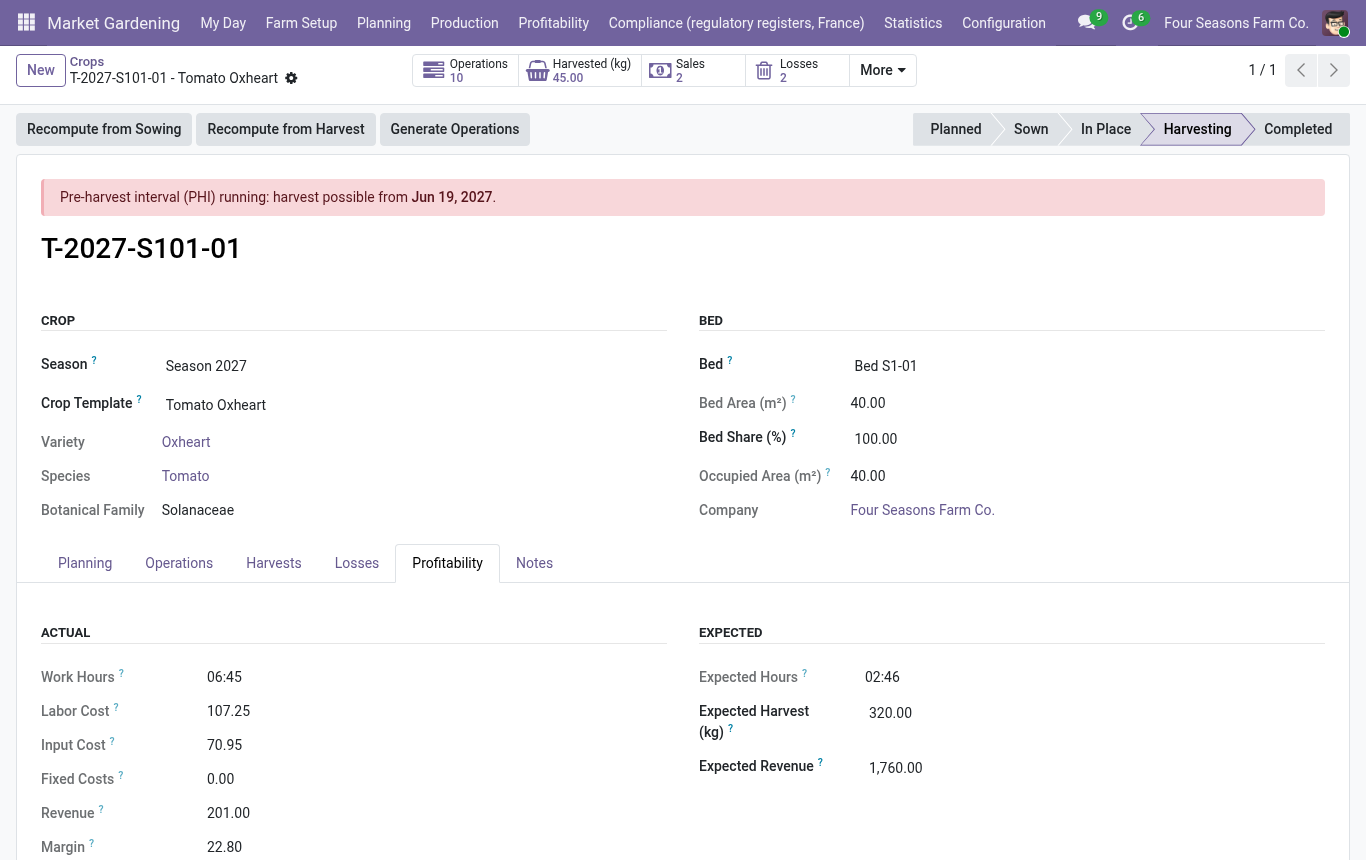
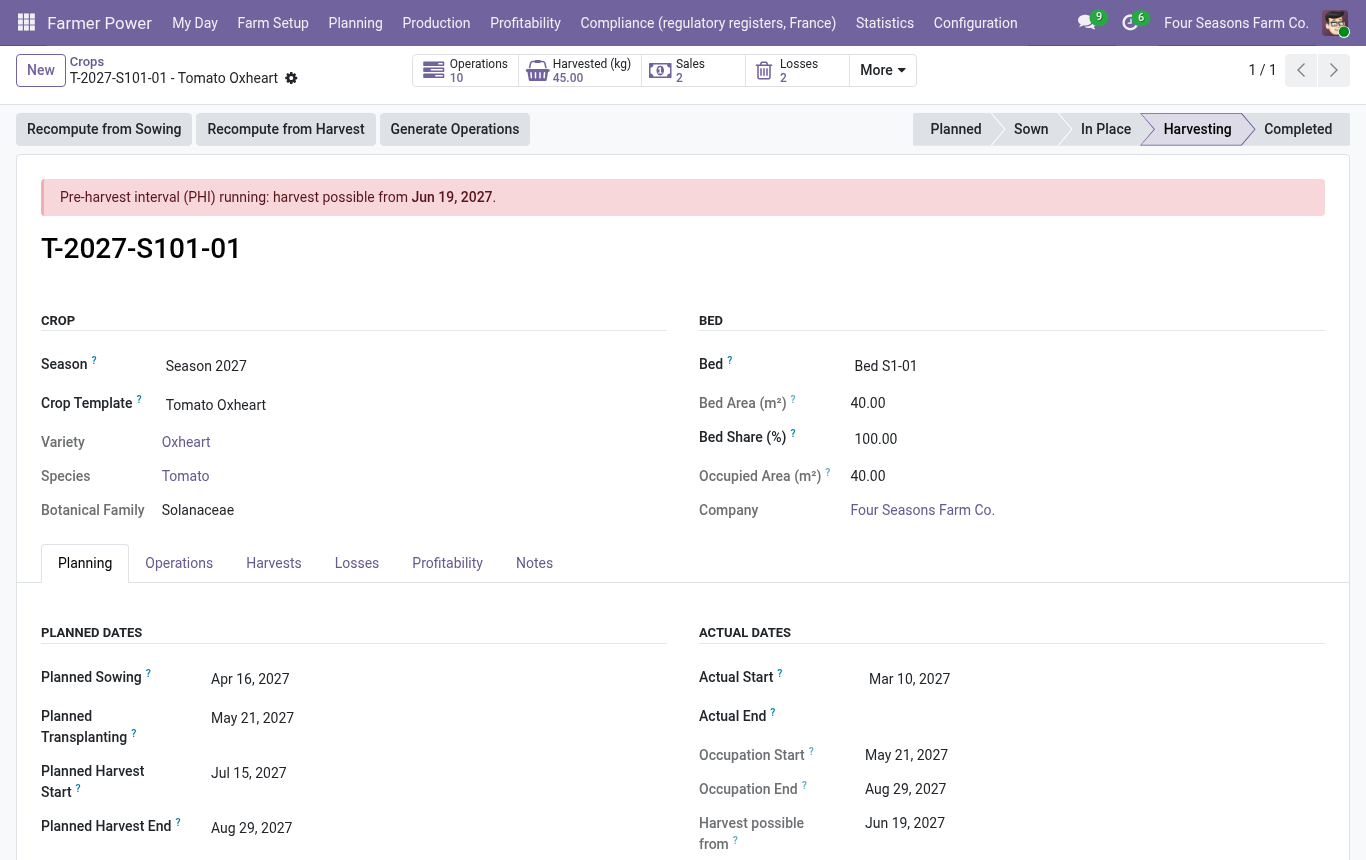
Icône et captures d'écran Farmer Power ; menu racine renommé Farmer Power

diff --git a/tests/test_translations.py b/tests/test_translations.py
@@ -15,19 +15,19 @@ PO_CODES = sorted(os.path.basename(path)[:-3] for path in glob.glob(os.path.join
 ODOO_LANGS = {'fr': 'fr_FR', 'es': 'es_ES', 'de': 'de_DE', 'nl': 'nl_NL', 'it': 'it_IT', 'pt_BR': 'pt_BR'}
 # Expected translations of key terms, per language.
 EXPECTED = {
-    'fr': {'bed': 'Planche', 'block': 'Îlot', 'menu_beds': 'Planches', 'root': 'Maraîchage', 'sowing': 'Semis',
+    'fr': {'bed': 'Planche', 'block': 'Îlot', 'menu_beds': 'Planches', 'root': 'Farmer Power', 'sowing': 'Semis',
            'planned': 'Planifiée', 'crop_manager': 'Chef de culture', 'message': 'Sélectionnez au moins une planche.'},
-    'es': {'bed': 'Bancal', 'block': 'Bloque', 'menu_beds': 'Bancales', 'root': 'Horticultura de mercado',
+    'es': {'bed': 'Bancal', 'block': 'Bloque', 'menu_beds': 'Bancales', 'root': 'Farmer Power',
            'sowing': 'Siembra', 'planned': 'Planificada', 'crop_manager': 'Responsable de cultivo',
            'message': 'Seleccione al menos un bancal.'},
-    'de': {'bed': 'Beet', 'block': 'Block', 'menu_beds': 'Beete', 'root': 'Gemüsebau', 'sowing': 'Aussaat',
+    'de': {'bed': 'Beet', 'block': 'Block', 'menu_beds': 'Beete', 'root': 'Farmer Power', 'sowing': 'Aussaat',
            'planned': 'Geplant', 'crop_manager': 'Kulturleiter', 'message': 'Wählen Sie mindestens ein Beet aus.'},
-    'nl': {'bed': 'Bed', 'block': 'Blok', 'menu_beds': 'Bedden', 'root': 'Groenteteelt', 'sowing': 'Zaaien',
+    'nl': {'bed': 'Bed', 'block': 'Blok', 'menu_beds': 'Bedden', 'root': 'Farmer Power', 'sowing': 'Zaaien',
            'planned': 'Gepland', 'crop_manager': 'Teeltleider', 'message': 'Selecteer minstens één bed.'},
-    'it': {'bed': 'Aiuola', 'block': 'Blocco', 'menu_beds': 'Aiuole', 'root': 'Orticoltura', 'sowing': 'Semina',
+    'it': {'bed': 'Aiuola', 'block': 'Blocco', 'menu_beds': 'Aiuole', 'root': 'Farmer Power', 'sowing': 'Semina',
            'planned': 'Pianificata', 'crop_manager': 'Responsabile di coltura',
            'message': "Seleziona almeno un'aiuola."},
-    'pt_BR': {'bed': 'Canteiro', 'block': 'Bloco', 'menu_beds': 'Canteiros', 'root': 'Horticultura',
+    'pt_BR': {'bed': 'Canteiro', 'block': 'Bloco', 'menu_beds': 'Canteiros', 'root': 'Farmer Power',
               'sowing': 'Semeadura', 'planned': 'Planejada', 'crop_manager': 'Responsável pelo cultivo',
               'message': 'Selecione pelo menos um canteiro.'},
 }
